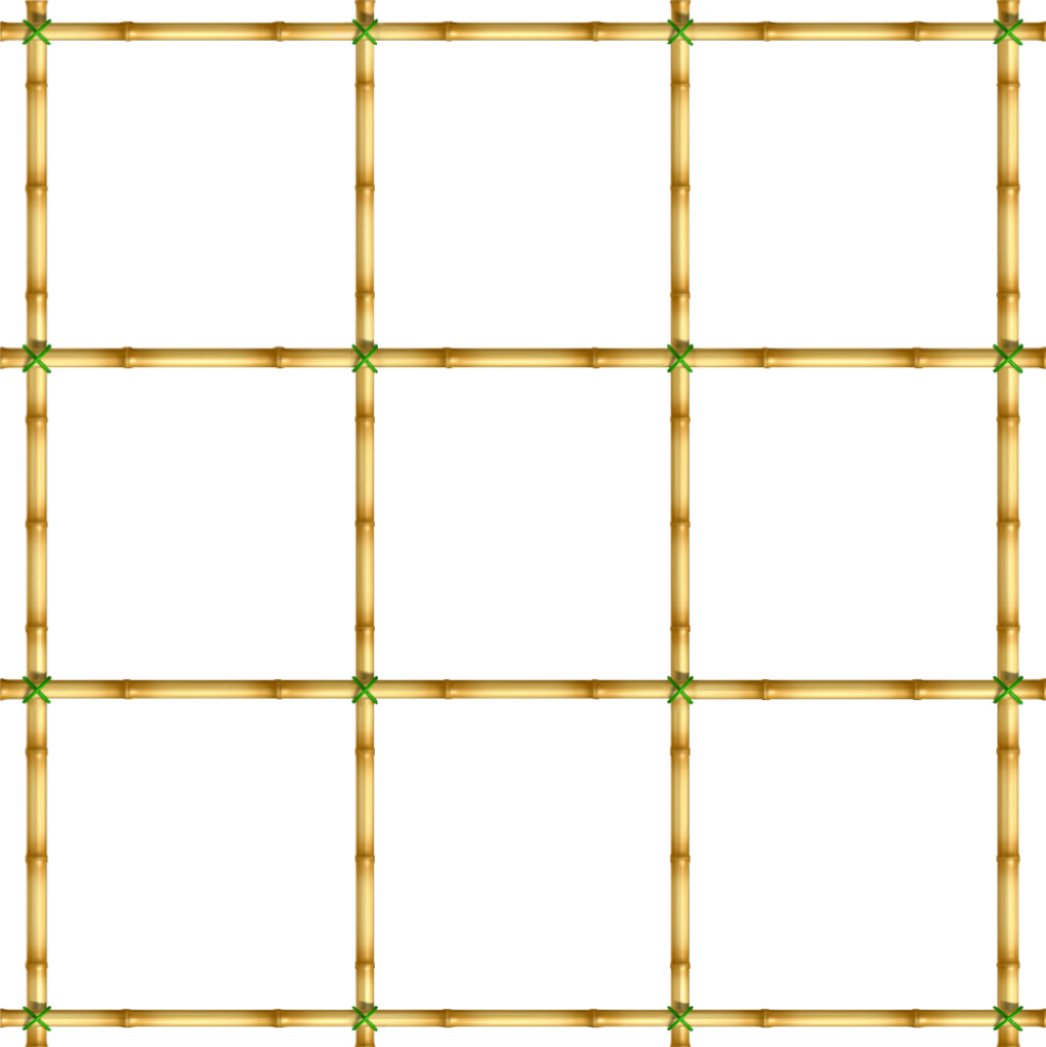
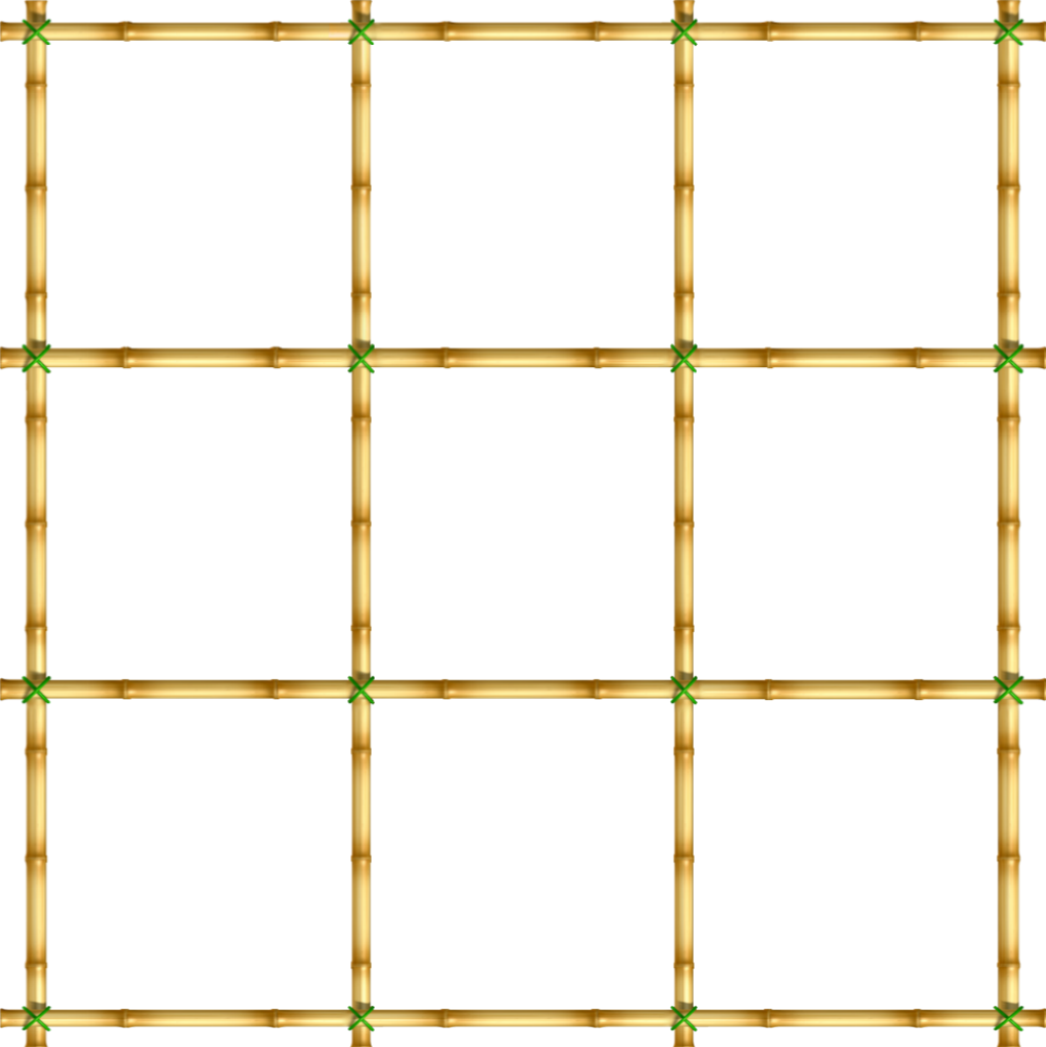
Better sizes the background images and sudoku squares

Changed region(s): [[0.6424, 0.0, 0.673, 1.0], [0.3365, 0.0, 0.3671, 1.0], [0.9484, 0.978, 0.979, 1.0]]

diff --git a/src/gui/SudokuGUI.java b/src/gui/SudokuGUI.java
@@ -18,7 +18,7 @@ import java.util.Observer;
 //todo - select puzzle before playing it, let them cycle through all 10000 and keep count
 //todo - original numbers are black and placed numbers are blue
 //todo - selecting a number option highlights all squares of that option (if all filled make the num option green)
-//todo - highlighting a numbered square will make simliar numbered squares have yellow text and all boxes that matter to it get highlightedish
+//todo - highlighting a numbered square will make similar numbered squares have yellow text and all boxes that matter to it get highlightedish
 //todo - combine isGoal and isValid into Check and it says how many are left if isValid but not isGoal
 //todo - have the given numbers be grayed out and not be instantiated as the private class (make a gray.png)
 //todo - also have the option of solving the user's own puzzles they input themselves (backtrack for these)

diff --git a/src/gui/state/GameState.java b/src/gui/state/GameState.java
@@ -102,8 +102,8 @@ public class GameState extends State{
             }
         }
         innerSquares.setPadding(new Insets(0, gui.stage.getWidth()/9, 0, gui.stage.getWidth()/9));
-        innerSquares.setHgap( gui.stage.getWidth()/100 );
-        innerSquares.setVgap( gui.stage.getHeight()/100 );
+        innerSquares.setHgap( gui.stage.getWidth()/71);
+        innerSquares.setVgap( gui.stage.getHeight()/85 );
         innerSquares.setAlignment(Pos.CENTER);
 
         ImageView gameBorder = new ImageView(
